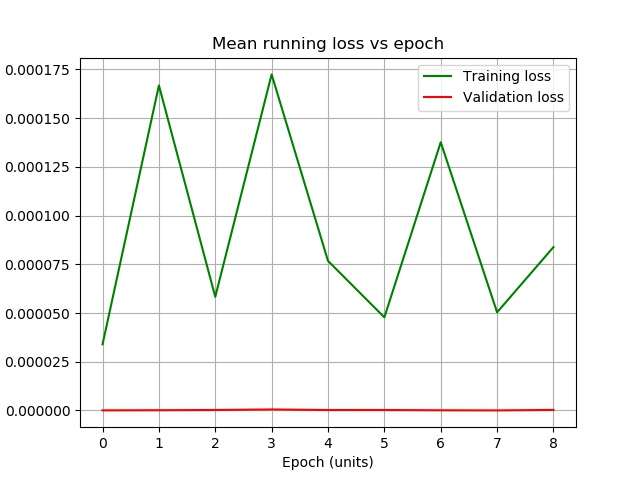
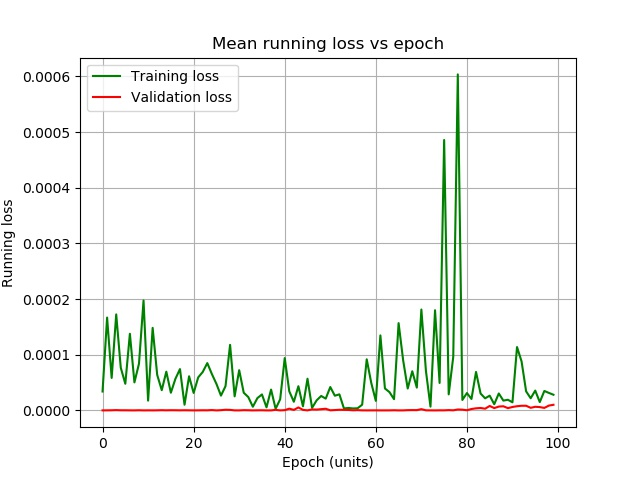
Added new changes to tune.py script too

diff --git a/LSTM_Test/tune.py b/LSTM_Test/tune.py
@@ -139,18 +139,23 @@ def treat_data(times, defs, seq_length):
 
     return dataX, dataY, times_dataY, time_step
 
-def train_model(config, checkpoint_dir="", data_dir=""):
+def train_model(config, checkpoint_dir="", data_dir="", validate=True):
     # Transform num into bool for biderectionality
     if config["bd"]==0:
         bd = False
     else:
         bd = True
+
+    if config['st']==0:
+        stateful = True
+    else:
+        stateful = False
     # Load data
     times, defs = load_data(config, data_dir)
     defsX, defsY, times_dataY, time_step = treat_data(times, defs, config["sl"])
 
     # Initialize model
-    lstm = LSTM(1,1,config["hs"],config["nl"],config["do"], bd)
+    lstm = LSTM(config["bs"],1,1,config["hs"],config["nl"],config["do"], bd)
     # Send model to device
     lstm.to(device)
 
@@ -165,20 +170,37 @@ def train_model(config, checkpoint_dir="", data_dir=""):
         optimizer.load_state_dict(optimizer_state)
 
     # Train the model
+
+    # Define validation set and training set
+    if validate:
+        ind_val = int(len(defsY) * 0.25)  # Select 25% of data as validation
+        val_defsX = defsX[ind_val:]
+        val_defsY = defsY[ind_val:]
+        defsX = defsX[:ind_val]
+        defsY = defsY[:ind_val]
+
     if config["bs"]==-1:
         for epoch in range(10):
             optimizer.zero_grad()
 
-            outputs = lstm(defsX.to(device))
+            outputs, hidden = lstm(defsX.to(device))
 
             # Obtain the value for the loss function
             loss = criterion(outputs.to(device), defsY.to(device))
 
-            loss4report = loss.clone()
-
             loss.backward()
 
             optimizer.step()
+
+            with torch.no_grad():
+                # Initialize model in testing mode
+                lstm.eval()
+                val_pred, val_hidden = lstm(val_defsX.to(device))
+                val_loss = criterion(val_pred.to(device), val_defsY.to(device))
+
+                loss4report = val_loss.item()
+                # Initialize model in trainning mode again
+                lstm.train()
 
             # Save model
             with tune.checkpoint_dir(epoch) as checkpoint_dir:
@@ -186,7 +208,7 @@ def train_model(config, checkpoint_dir="", data_dir=""):
                 torch.save((lstm.state_dict(), optimizer.state_dict()), path)
 
             # Report loss to tune
-            tune.report(loss=loss4report.detach().cpu().numpy())
+            tune.report(loss=loss4report)
     else:
         batches = []
         ind = 0
@@ -197,20 +219,44 @@ def train_model(config, checkpoint_dir="", data_dir=""):
                 ind += config["bs"]
             except:
                 break
+
+        if (batches[-1]['defsX']).size(0)!=config["bs"]:
+            batches = batches[:-1]
+            print("Removing last batch because of invalid batch size")
+
         for epoch in range(10):
+            hidden = None
+            running_loss = 0.0
+            val_running_loss = 0.0
             for batch in batches:
                 optimizer.zero_grad()
 
-                outputs = lstm(batch['defsX'].to(device))
+                if stateful:
+                    outputs, hidden = lstm(batch['defsX'].to(device), hidden=hidden)
+                else:
+                    outputs, hidden = lstm(batch['defsX'].to(device))
 
                 # Obtain the value for the loss function
                 loss = criterion(outputs.to(device), batch['defsY'].to(device))
 
-                loss4report = loss.clone()
+                running_loss += loss.item()
 
                 loss.backward()
 
                 optimizer.step()
+
+                with torch.no_grad():
+                    # Initialize model in testing mode
+                    lstm.eval()
+                    val_pred, val_hidden = lstm(val_defsX.to(device))
+                    val_loss = criterion(val_pred.to(device), val_defsY.to(device))
+
+                    val_running_loss += val_loss.item()
+
+                    # Initialize model in trainning mode again
+                    lstm.train()
+
+            loss4report = (val_running_loss/len(batches))
 
             # Save model
             with tune.checkpoint_dir(epoch) as checkpoint_dir:
@@ -218,36 +264,8 @@ def train_model(config, checkpoint_dir="", data_dir=""):
                 torch.save((lstm.state_dict(), optimizer.state_dict()), path)
 
             # Report loss to tune
-            tune.report(loss=loss4report.detach().cpu().numpy())
+            tune.report(loss=loss4report)
     pass
-
-def test_accuracy(config, seq_length, model, device="cpu", data_dir=""):
-    fut_pred = 12
-    ind_test = -100
-
-    times, defs = load_data(config, data_dir)
-    defsX, defsY, times_dataY, time_step = treat_data(times, defs, config["sl"])
-
-    test_inputs = np.zeros([fut_pred + 1, 1, seq_length, 1])
-    #test_inputs[0] = dataX[-1].reshape(-1,seq_length,1).data.numpy()
-
-    test_inputs[0] = defsX[ind_test].reshape(1,seq_length,1)
-
-    for i in range(fut_pred):
-        seq = torch.FloatTensor(test_inputs[i]).to(device)
-        with torch.no_grad():
-            prediction = model(seq).data.cpu().numpy().item()
-            test_inputs[i+1] = np.append(test_inputs[i][0][1:], prediction).reshape([1,seq_length,1])
-
-    data_predict = np.array([x.reshape(seq_length)[-1] for x in test_inputs]).reshape([-1,1])
-    data = defsY  # Pre-prediction deformation
-
-    data_predict = sc.inverse_transform(data_predict)
-    data = sc.inverse_transform(dataY_plot)[ind_test:ind_test+(fut_pred+1)]
-
-    # Test predicted model output with data
-    r2s = r2s(data, data_predict)
-    return r2s
 
 def hyp_tune(num_samples=10, max_num_epochs=10, gpus_per_trial=2):
     data_dir = os.path.abspath(os.getcwd())
@@ -260,7 +278,8 @@ def hyp_tune(num_samples=10, max_num_epochs=10, gpus_per_trial=2):
               "sl": tune.sample_from(lambda _: np.random.randint(1,10)),#(1, 288)),#21
               "bs": tune.sample_from(lambda _: np.random.randint(1,50)),#27
               "lr": tune.loguniform(1e-4, 1e-1),#0.0008695868177968809
-              "bd": tune.sample_from(lambda _: np.random.randint(0,2))#0
+              "bd": tune.sample_from(lambda _: np.random.randint(0,2)),#0
+              "st": tune.sample_from(lambda _: np.random.randint(0,2))#0
               }
 
     scheduler = ASHAScheduler(
@@ -293,7 +312,8 @@ def hyp_tune(num_samples=10, max_num_epochs=10, gpus_per_trial=2):
                    df_result.iloc[ind_min_loss]['config.lr'],
                    df_result.iloc[ind_min_loss]['config.na'],
                    df_result.iloc[ind_min_loss]['config.do'],
-                   df_result.iloc[ind_min_loss]['config.bd']]
+                   df_result.iloc[ind_min_loss]['config.bd'],
+                   df_result.iloc[ind_min_loss]['config.st']]
     print('Best configuration parameters:')
     print('------------------------------')
     print(' Loss = ', best_config[0], '\n',
@@ -304,33 +324,8 @@ def hyp_tune(num_samples=10, max_num_epochs=10, gpus_per_trial=2):
           'Learning rate = ', best_config[5], '\n',
           'Number for Moving Average = ', best_config[6], '\n',
           'Dropout = ', best_config[7], '\n',
-          'Bidirectional (0:F 1:T) = ', best_config[8])
+          'Bidirectional (0:F 1:T) = ', best_config[8], '\n',
+          'Stateful (0:F 1:T) = ', best_config[9])
 
-    '''
-    NOT WORKING
-
-    best_trial = result.get_best_trial("loss", "min", "last")
-    print("Best trial config: {}".format(best_trial.config))
-    print("Best trial final validation loss: {}".format(
-        best_trial.last_result["loss"]))
-    print("Best trial final validation accuracy: {}".format(
-        best_trial.last_result["accuracy"]))
-
-    best_trained_model = LSTM(1,1,best_trial.config["hs"],best_trial.config["nl"],0)
-    device = "cpu"
-    if torch.cuda.is_available():
-        device = "cuda:0"
-        if gpus_per_trial > 1:
-            best_trained_model = nn.DataParallel(best_trained_model)
-    best_trained_model.to(device)
-
-    best_checkpoint_dir = best_trial.checkpoint.value
-    model_state, optimizer_state = torch.load(os.path.join(
-        best_checkpoint_dir, "checkpoint"))
-    best_trained_model.load_state_dict(model_state)
-
-    test_acc = test_accuracy(best_trial.config["sl"], best_trained_model, device)
-    print("Best trial test set accuracy: {}".format(test_acc))
-    '''
 if __name__ == "__main__":
     hyp_tune(num_samples=num_samples, max_num_epochs=10, gpus_per_trial=1)

diff --git a/LSTM_Test/train.py b/LSTM_Test/train.py
@@ -28,10 +28,12 @@ class Train(object):
                     validate=True):
         # Define validation set and training set
         if validate:
-            defsX = defsX[:-10]
-            defsY = defsY[:-10]
-            val_defsX = defsX[-10:]
-            val_defsY = defsY[-10:]
+            # Select 25% of data as validation
+            ind_val = int(len(defsY) * 0.25)
+            val_defsX = defsX[ind_val:]
+            val_defsY = defsY[ind_val:]
+            defsX = defsX[:ind_val]
+            defsY = defsY[:ind_val]
 
         # Send model to device
         self.lstm.to(self.device)
@@ -93,6 +95,8 @@ class Train(object):
 
             for epoch in tqdm(range(num_epochs), total=num_epochs):
                 hidden = None
+                running_loss = 0.0
+                val_running_loss = 0.0
                 for batch in batches:
                     self.optimizer.zero_grad()
 
@@ -104,6 +108,8 @@ class Train(object):
                     # Obtain the value for the loss function
                     loss = self.criterion(outputs.to(self.device), batch['defsY'].to(self.device))
 
+                    running_loss += loss.item()
+
                     loss.backward()
 
                     self.optimizer.step()
@@ -113,11 +119,14 @@ class Train(object):
                         self.lstm.eval()
                         val_pred, val_hidden = self.lstm(val_defsX.to(self.device))
                         val_loss = self.criterion(val_pred.to(self.device), val_defsY.to(self.device))
+
+                        val_running_loss += val_loss.item()
+
                         # Initialize model in trainning mode again
                         self.lstm.train()
 
-                loss4plot.append(loss.item())
-                val_loss4plot.append(val_loss.item())
+                loss4plot.append(running_loss/len(batches))
+                val_loss4plot.append(val_running_loss/len(batches))
 
                 # Plot loss vs epoch
                 self.plot_loss(fig_loss, epoch, loss4plot, val_loss4plot)
